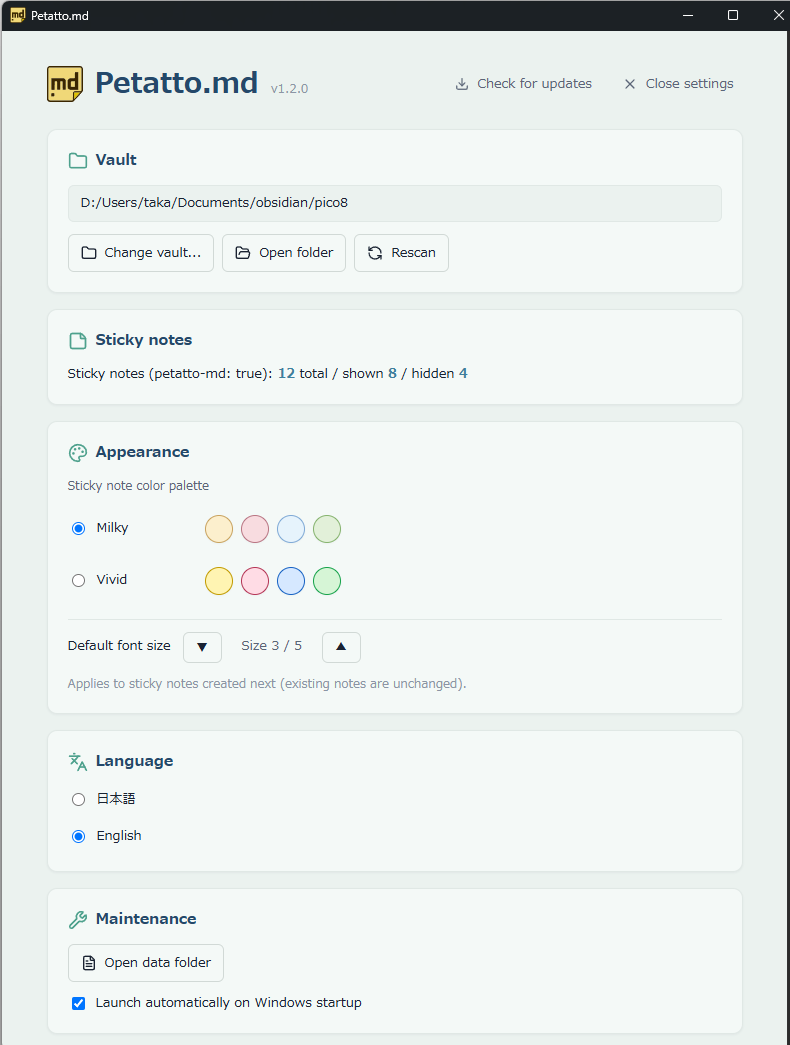
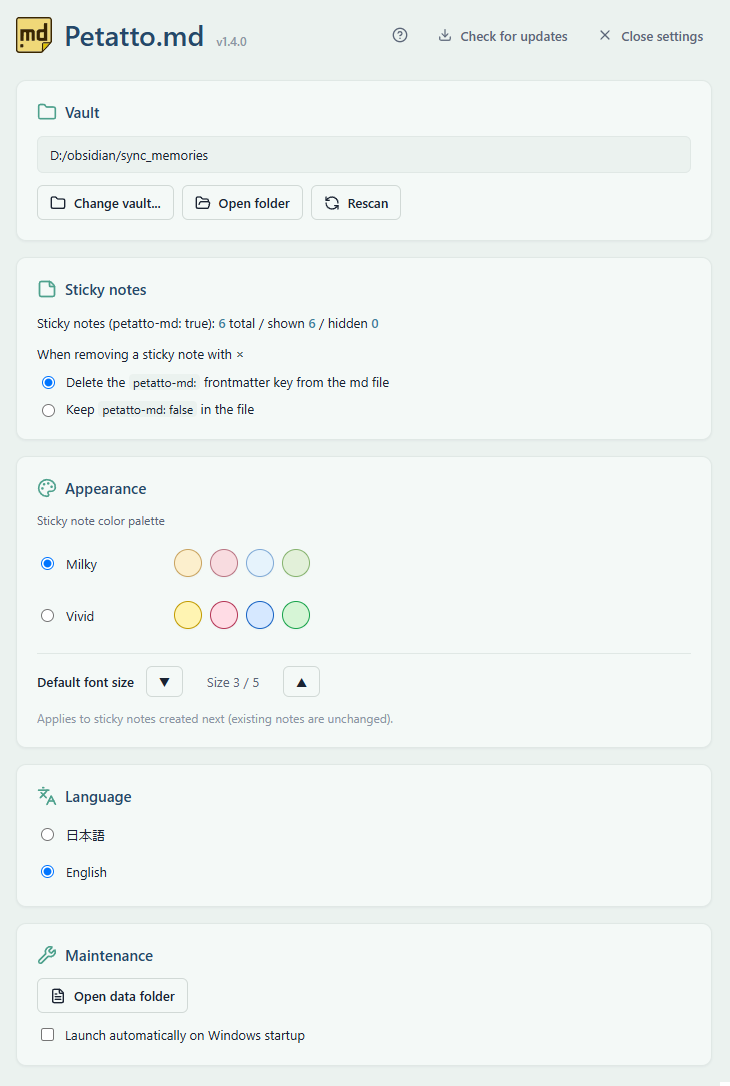
feat(site): v1.4.0 要望①（×ボタンの解除モード）に追従 — FAQ 改訂とスクショ更新
- faq.a4（ja/en）: 「× は付箋化を解除するだけ」に加え、frontmatter を削除するか
  petatto-md: false として書き残すかを選べる旨を追記。既存回答が v1.4.0 で不正確になるため。
- shots.main（ja/en）: メインウィンドウのカード列挙に「付箋」を追加。
- assets/screenshots/main.png・main_en.png: 解除モードのラジオを含む v1.4.0 表示に差し替え。

⚠ v1.4.0 は未リリース。push（= GitHub Pages 即公開）はリリース公開後に行う。
要望②（.petatto-ignore）の #features カード追加は Phase 3 で対応。

diff --git a/assets/main.js b/assets/main.js
@@ -56,7 +56,7 @@
       "shots.button": "ヘッダの操作（フォントサイズ5段階・色・付箋化解除）",
       "shots.buttonImg": "assets/screenshots/button_ja.png",
       "shots.edit": "本文ダブルクリックで編集モード／タイトルのダブルクリックでリネーム",
-      "shots.main": "メインウィンドウ（vault・外観・言語・メンテナンス）",
+      "shots.main": "メインウィンドウ（vault・付箋・外観・言語・メンテナンス）",
       "shots.mainImg": "assets/screenshots/main.png",
       "shots.tray": "トレイ左クリックで全付箋を最前面／右クリックで一元操作",
       "shots.trayImg": "assets/screenshots/tasktray.png",
@@ -104,7 +104,7 @@
       "faq.q3": "データはどこかに送信されますか？",
       "faq.a3": "送信しません。テレメトリ・使用状況・解析は一切収集しません。更新確認（手動ボタン）時だけ「新しいバージョンがあるか」を問い合わせますが、利用状況は含みません。",
       "faq.q4": "付箋を消すとファイルも消えますか？",
-      "faq.a4": "消えません。付箋ヘッダの「×」は frontmatter の <code>petatto-md: true</code> を削除するだけで、md ファイル自体は残ります。",
+      "faq.a4": "消えません。付箋ヘッダの「×」は<strong>付箋化を解除するだけ</strong>で、md ファイル自体は残ります。解除したときに frontmatter の <code>petatto-md</code> を<strong>削除する</strong>か、<code>petatto-md: false</code> として<strong>書き残す</strong>かは設定で選べます（既定は削除）。書き残しておけば、Obsidian 側で <code>petatto-md: false</code> を検索して「前に付箋にしていたノート」を辿れます。",
       "faq.q5": "Mac / Linux 版はありますか？",
       "faq.a5": "現在は Windows 10 / 11（x64）のみ対応しています。",
       "faq.q6": "ライセンス・料金は？",
@@ -198,7 +198,7 @@
       "shots.button": "Header controls (font size ×5, color, un-stick)",
       "shots.buttonImg": "assets/screenshots/button_en.png",
       "shots.edit": "Double-click the body to edit · the title to rename",
-      "shots.main": "Main window (vault, appearance, language, maintenance)",
+      "shots.main": "Main window (vault, sticky notes, appearance, language, maintenance)",
       "shots.mainImg": "assets/screenshots/main_en.png",
       "shots.tray": "Left-click the tray to bring all notes to front · right-click for full control",
       "shots.trayImg": "assets/screenshots/tasktray_en.png",
@@ -246,7 +246,7 @@
       "faq.q3": "Is any data sent anywhere?",
       "faq.a3": "No. No telemetry, usage, or analytics are collected. Only when you press the manual update-check button does it ask whether a newer version exists — no usage data included.",
       "faq.q4": "If I close a sticky, is the file deleted?",
-      "faq.a4": "No. The header × button only removes the <code>petatto-md: true</code> frontmatter; the md file itself stays.",
+      "faq.a4": "No. The header × button just <strong>unpins</strong> the note — the md file itself stays. You choose what happens to the frontmatter: <strong>delete</strong> the <code>petatto-md</code> key, or <strong>keep</strong> it as <code>petatto-md: false</code> (delete is the default). Keeping it lets you search Obsidian for <code>petatto-md: false</code> to find notes you used to have on your desktop.",
       "faq.q5": "Is there a Mac / Linux version?",
       "faq.a5": "Currently Windows 10 / 11 (x64) only.",
       "faq.q6": "License and price?",

diff --git a/index.html b/index.html
@@ -176,7 +176,7 @@
           </figure>
           <figure class="shot shot-wide">
             <img data-i18n-src="shots.mainImg" src="assets/screenshots/main.png" alt="" loading="lazy" />
-            <figcaption data-i18n="shots.main">メインウィンドウ（vault・外観・言語・メンテナンス）</figcaption>
+            <figcaption data-i18n="shots.main">メインウィンドウ（vault・付箋・外観・言語・メンテナンス）</figcaption>
           </figure>
           <figure class="shot">
             <img data-i18n-src="shots.trayImg" src="assets/screenshots/tasktray.png" alt="" loading="lazy" />
@@ -314,7 +314,7 @@ petatto-md: true
           </details>
           <details>
             <summary data-i18n="faq.q4">付箋を消すとファイルも消えますか？</summary>
-            <p data-i18n="faq.a4">消えません。付箋ヘッダの「×」は frontmatter の <code>petatto-md: true</code> を削除するだけで、md ファイル自体は残ります。</p>
+            <p data-i18n="faq.a4">消えません。付箋ヘッダの「×」は<strong>付箋化を解除するだけ</strong>で、md ファイル自体は残ります。解除したときに frontmatter の <code>petatto-md</code> を<strong>削除する</strong>か、<code>petatto-md: false</code> として<strong>書き残す</strong>かは設定で選べます（既定は削除）。書き残しておけば、Obsidian 側で <code>petatto-md: false</code> を検索して「前に付箋にしていたノート」を辿れます。</p>
           </details>
           <details>
             <summary data-i18n="faq.q5">Mac / Linux 版はありますか？</summary>
